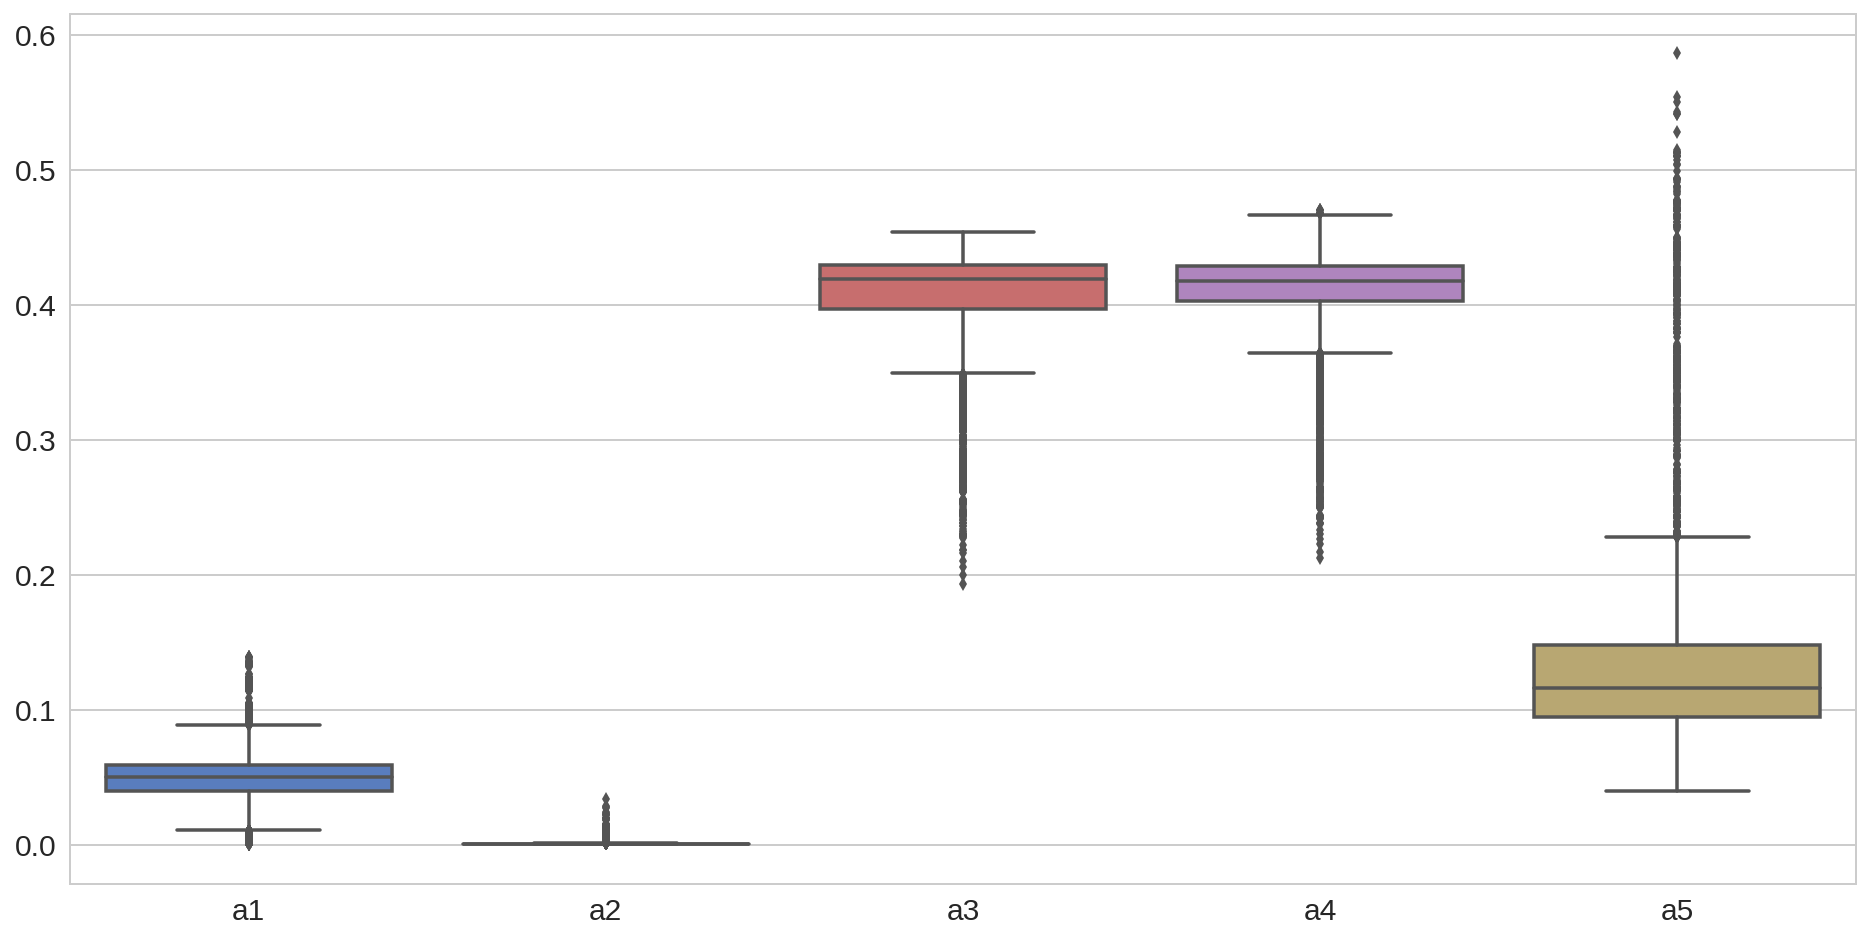
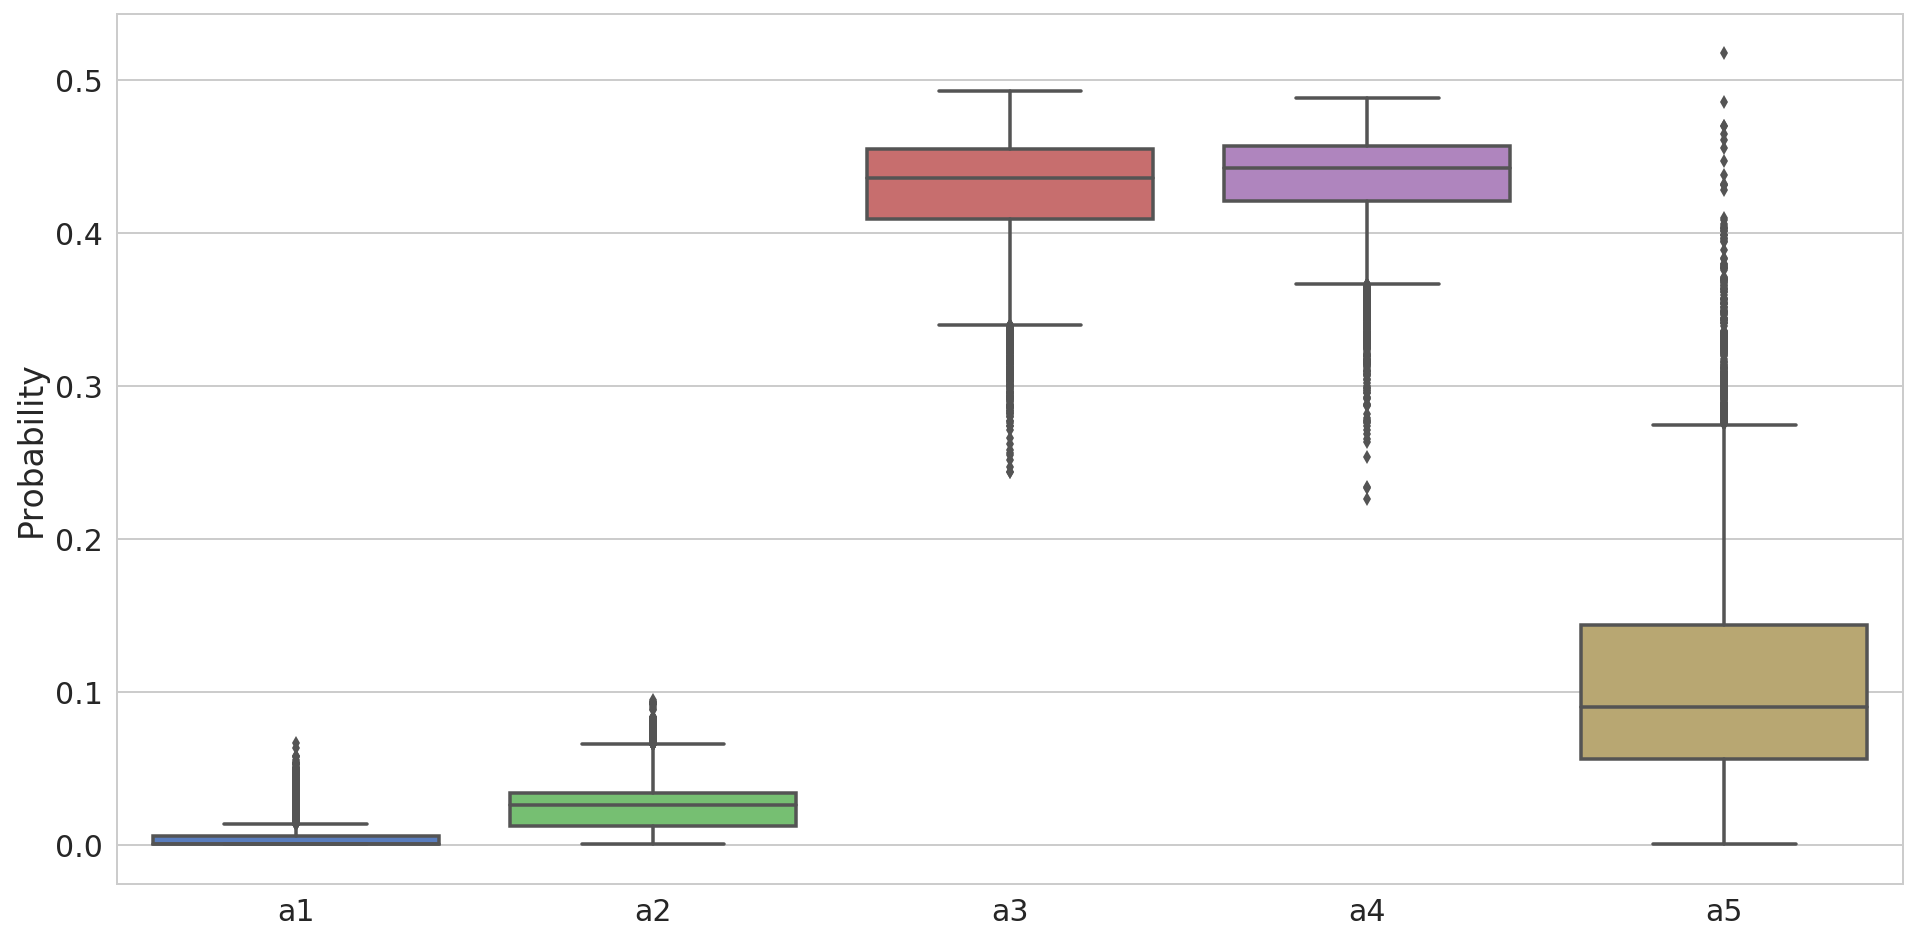
Update experiments for sample environment

diff --git a/text/output/thesis.html b/text/output/thesis.html
@@ -591,7 +591,7 @@ Table x.x Short title of the figure . . . </p>
 <li>втори скрит слой: пълно свързан слой (fully-connected) с 15 неврона</li>
 <li>изходен слой: слой с 5 неврона (броя на възможните действия)</li>
 </ul>
-<p>Прилагаме ReLU активизационна функция, предложена в <span class="citation" data-cites="hahnloser2000digital">(Hahnloser et al. 2000)</span> и отпадане (Dropout), предложен в <span class="citation" data-cites="srivastava2014dropout">(Srivastava et al. 2014)</span>, с вероятност за отпадане на неврон <span class="math inline">\(p=0.2\)</span> върху първи и втори скрит слой. Допълнително, прилагаме нормализация на група от данни (Batch normalization), предложена в <span class="citation" data-cites="ioffe2015batch">(Ioffe &amp; Szegedy 2015)</span>, след втори скрит слой. Описаната БИНМ може да се представи в PyTorch <span class="citation" data-cites="paszke2017pytorch">(Paszke et al. 2017)</span> като:</p>
+<p>Прилагаме ReLU активизационна функция, предложена в <span class="citation" data-cites="hahnloser2000digital">(Hahnloser et al. 2000)</span> и отпадане (dropout), предложен в <span class="citation" data-cites="srivastava2014dropout">(Srivastava et al. 2014)</span>, с вероятност за отпадане на неврон <span class="math inline">\(p=0.2\)</span> върху първи и втори скрит слой. Допълнително, прилагаме нормализация на група от данни (batch normalization), предложена в <span class="citation" data-cites="ioffe2015batch">(Ioffe &amp; Szegedy 2015)</span>, след втори скрит слой. Описаната БИНМ може да се представи в PyTorch <span class="citation" data-cites="paszke2017pytorch">(Paszke et al. 2017)</span> като:</p>
 <div class="sourceCode" id="cb1"><pre class="sourceCode python"><code class="sourceCode python"><a class="sourceLine" id="cb1-1" data-line-number="1"><span class="kw">class</span> Model(nn.Module):</a>
 <a class="sourceLine" id="cb1-2" data-line-number="2"></a>
 <a class="sourceLine" id="cb1-3" data-line-number="3">    <span class="kw">def</span> <span class="fu">__init__</span>(<span class="va">self</span>):</a>
@@ -631,11 +631,51 @@ Table x.x Short title of the figure . . . </p>
 <img src="./source/figures/memrise_encoding.png" alt="Закодирано представяне на Memrise" /><figcaption><em>Закодирано представяне на Memrise</em></figcaption>
 </figure>
 <h3 id="обучение"><span class="header-section-number">3.4.2</span> Обучение</h3>
-<p>За оптимизатор използваме <em>SGD</em> със скорост на обучение (learning rate) <span class="math inline">\(lr=0.1\)</span> и движеща сила (momentum) <span class="math inline">\(m=0.5\)</span>. Описаният модел обучаваме за <em>1,000</em> епохи върху всяка среда по отделно.</p>
+<p>За оптимизатор използваме <em>SGD</em> със скорост на обучение (learning rate) <span class="math inline">\(lr=0.1\)</span> и движеща сила (momentum) <span class="math inline">\(m=0.5\)</span>. Описаният модел обучаваме за <em>1,000</em> епохи върху всяка среда по отделно. Записваме грешката върху тренировъчните данни след обучението на модела във всяка епоха.</p>
 <h3 id="резултати"><span class="header-section-number">3.4.3</span> Резултати</h3>
+<p>За извличане на извадки от апостериорното разпределение на действията използваме Монте Карло отпадане (MC dropout) и прилагаме отпадане по време на тестване <span class="math inline">\(n=10,000\)</span> пъти. Стойностите във всяка извадка се нормализират - отместваме всички стойности с минималната стойност от извадката и сумата от всички стойности приравняваме на единица.</p>
+<h4 id="примерна-среда"><span class="header-section-number">3.4.3.1</span> Примерна среда</h4>
 <figure>
-<img src="./source/figures/training_loss.png" alt="Промяна на грешката по време на обучение" /><figcaption><em>Промяна на грешката по време на обучение</em></figcaption>
+<img src="./source/figures/training_loss.png" alt="Промяна на грешката по време на обучение върху примерната среда" /><figcaption><em>Промяна на грешката по време на обучение върху примерната среда</em></figcaption>
 </figure>
+<p>Матрицата <span class="math inline">\(T\)</span> предоставя малко данни за примерната среда (само 3 реда), но въпреки това предложения модел успява да намали тренировъчната грешка. Разбира се, възможно е модела да се е нагодил (overfit) спрямо данните, които използваме за обучение. Средната стойност и стандартното отклонение на апостериорното разпределение за вероятността действие да е оптимално са дадени на .</p>
+<table>
+<thead>
+<tr class="header">
+<th></th>
+<th><span class="math inline">\(a_1\)</span></th>
+<th><span class="math inline">\(a_2\)</span></th>
+<th><span class="math inline">\(a_3\)</span></th>
+<th><span class="math inline">\(a_4\)</span></th>
+<th><span class="math inline">\(a_5\)</span></th>
+</tr>
+</thead>
+<tbody>
+<tr class="odd">
+<td>mean</td>
+<td>0.006</td>
+<td>0.025</td>
+<td>0.427</td>
+<td>0.434</td>
+<td>0.107</td>
+</tr>
+<tr class="even">
+<td>std</td>
+<td>0.010</td>
+<td>0.018</td>
+<td>0.036</td>
+<td>0.031</td>
+<td>0.073</td>
+</tr>
+</tbody>
+</table>
+
+<p>Отново, закодираното последно състояние получено от примерната среда при изпълнение на действията описани в <span class="math inline">\(T\)</span> е представено на </p>
+<figure>
+<img src="./source/figures/flower_store_final_state.png" alt="Закодиране на последното състояние представено в примерната среда" /><figcaption>Закодиране на последното състояние представено в примерната среда</figcaption>
+</figure>
+<p>При неколкократно изпълнение за обучение и оценка на модела наблюдаваме, че получените извадки се различават и понякога <span class="math inline">\(a_3\)</span> има по-висока средна стойност от <span class="math inline">\(a_4\)</span>.</p>
+<p>Апостериорното разпределение е представено на  и </p>
 <figure>
 <img src="./source/figures/posterior_actions_dist.png" alt="Апостериорно разпределение за всяко действие" /><figcaption><em>Апостериорно разпределение за всяко действие</em></figcaption>
 </figure>

diff --git a/text/source/11_choosing_action.md b/text/source/11_choosing_action.md
@@ -100,7 +100,7 @@ QA експертът взаимодейства с ГПИ чрез пореди
 - втори скрит слой: пълно свързан слой (fully-connected) с 15 неврона
 - изходен слой: слой с 5 неврона (броя на възможните действия)
 
-Прилагаме ReLU активизационна функция, предложена в [@hahnloser2000digital] и отпадане (Dropout), предложен в [@srivastava2014dropout], с вероятност за отпадане на неврон $p=0.2$  върху първи и втори скрит слой. Допълнително, прилагаме нормализация на група от данни (Batch normalization), предложена в [@ioffe2015batch], след втори скрит слой. Описаната БИНМ може да се представи в PyTorch [@paszke2017pytorch] като:
+Прилагаме ReLU активизационна функция, предложена в [@hahnloser2000digital] и отпадане (dropout), предложен в [@srivastava2014dropout], с вероятност за отпадане на неврон $p=0.2$  върху първи и втори скрит слой. Допълнително, прилагаме нормализация на група от данни (batch normalization), предложена в [@ioffe2015batch], след втори скрит слой. Описаната БИНМ може да се представи в PyTorch [@paszke2017pytorch] като:
 
 ```python
 class Model(nn.Module):
@@ -153,11 +153,32 @@ $$H(p, q) = - \sum_x p(x) \log q(x)$$
 
 ### Обучение
 
-За оптимизатор използваме *SGD* със скорост на обучение (learning rate) $lr=0.1$ и движеща сила (momentum) $m=0.5$. Описаният модел обучаваме за *1,000* епохи върху всяка среда по отделно.
+За оптимизатор използваме *SGD* със скорост на обучение (learning rate) $lr=0.1$ и движеща сила (momentum) $m=0.5$. Описаният модел обучаваме за *1,000* епохи върху всяка среда по отделно. Записваме грешката върху тренировъчните данни след обучението на модела във всяка епоха.
 
 ### Резултати
 
-![*Промяна на грешката по време на обучение*\label{training_loss}](./source/figures/training_loss.png)
+За извличане на извадки от апостериорното разпределение на действията използваме Монте Карло отпадане (MC dropout) и прилагаме отпадане по време на тестване $n=10,000$ пъти. Стойностите във всяка извадка се нормализират - отместваме всички стойности с минималната стойност от извадката и сумата от всички стойности приравняваме на единица.
+
+#### Примерна среда
+
+![*Промяна на грешката по време на обучение върху примерната среда*\label{training_loss}](./source/figures/training_loss.png)
+
+Матрицата $T$ предоставя малко данни за примерната среда (само 3 реда), но въпреки това предложения модел успява да намали тренировъчната грешка. Разбира се, възможно е модела да се е нагодил (overfit) спрямо данните, които използваме за обучение. Средната стойност и стандартното отклонение на апостериорното разпределение за вероятността действие да е оптимално са дадени на \ref{action_dist_flower}.
+
+|      | $a_1$ | $a_2$ | $a_3$ | $a_4$ | $a_5$ |
+|------|-------|-------|-------|-------|-------|
+| mean | 0.006 | 0.025 | 0.427 | 0.434 | 0.107 |
+| std  | 0.010 | 0.018 | 0.036 | 0.031 | 0.073 |
+
+\label{action_dist_flower}
+
+Отново, закодираното последно състояние получено от примерната среда при изпълнение на действията описани в $T$ е представено на \ref{flower_store_final_state}
+
+![Закодиране на последното състояние представено в примерната среда\label{flower_store_final_state}](./source/figures/flower_store_final_state.png)
+
+При неколкократно изпълнение за обучение и оценка на модела наблюдаваме, че получените извадки се различават и понякога $a_3$ има по-висока средна стойност от $a_4$.
+
+Апостериорното разпределение е представено на \ref{posterior_actions_dist} и \ref{posterior_actions_box}
 
 ![*Апостериорно разпределение за всяко действие*\label{posterior_actions_dist}](./source/figures/posterior_actions_dist.png)
 
